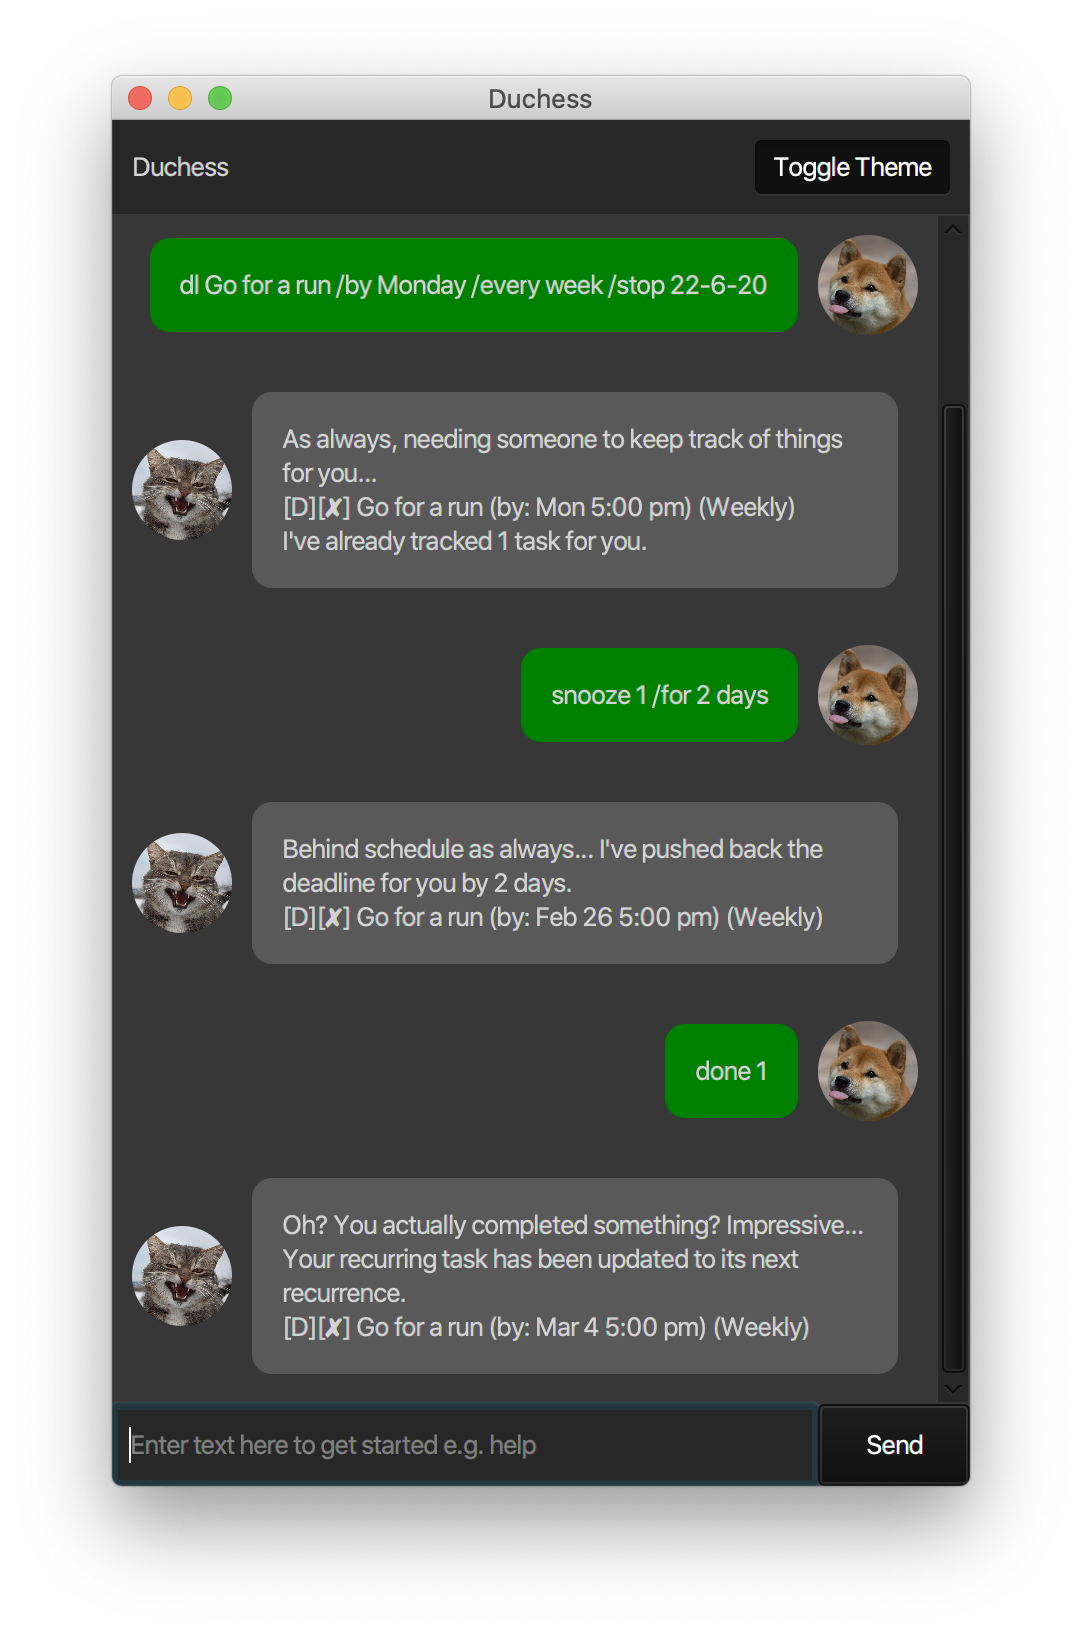
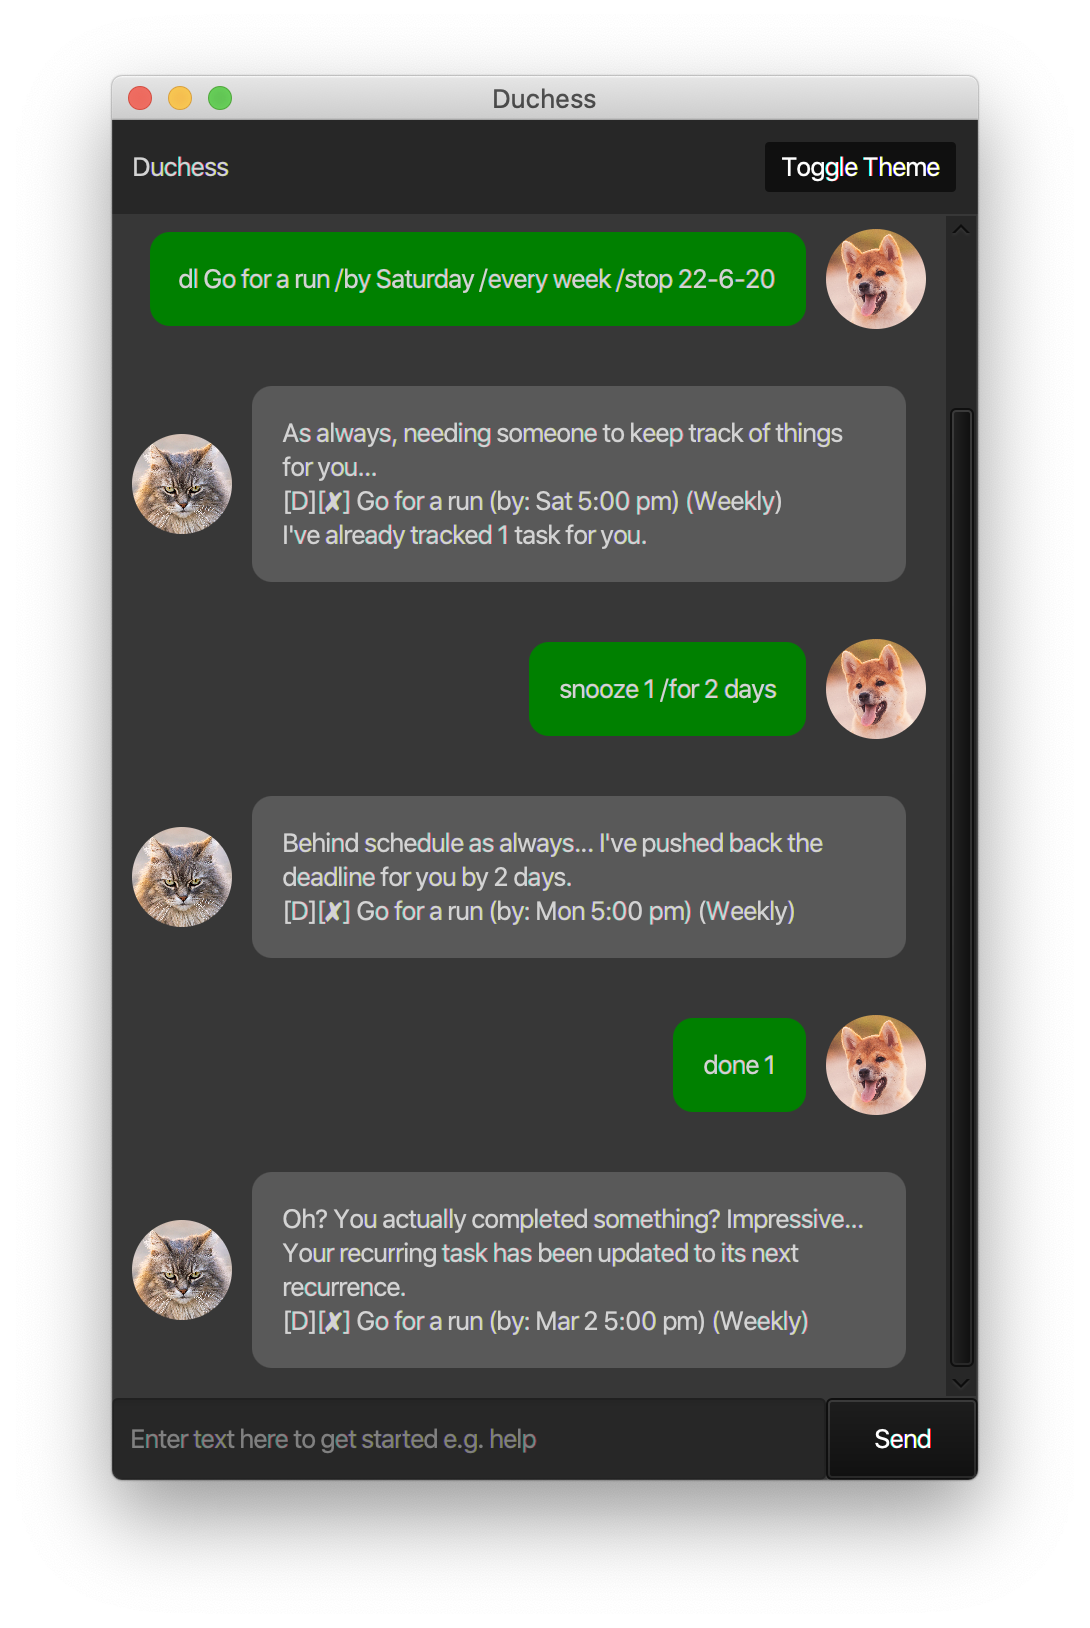
docs: do up documentation for duchess
Added Ui image and updated `docs/README.md` with the latest user guide.

To be brushed up later on.

diff --git a/docs/README.md b/docs/README.md
@@ -1,20 +1,319 @@
-# User Guide
+# User Guide for Duchess
+_Zhu Hanming A0196737L_
+
+Welcome to Duchess, the task manager app who just can't wait for you to go away!  
+
+Track your todos, deadlines and events meticulously, and have fun while doing so!
 
 ## Features 
 
-### Feature 1 
-Description of feature.
+### Create Tasks Based on Your Needs
+
+In Duchess, three different tasks can be created, depending on your needs:
+* Todos
+* Events
+* Deadlines
+
+#### Todos
+Todos are simply tasks with a description and a completion status, much like a todo you'd have on your todo list. As
+ such, it's very simple to create and use.
+ 
+#### Events
+Events on the other hand allow you to tag some particular time frame to your task. This is not a strict start and end
+ date, but rather a casual description, such as "at University Town, 2-4pm".
+ 
+#### Deadlines
+Deadlines are the tasks with hard due dates. Upon going beyond these due dates, you will be given warnings.
+
+Deadlines can also be recurring / repeated. More information on how to maximise the use of Deadlines will be included
+ below!  
+ 
+### Manage Your Tasks Easily
+A variety of commands has been provided to enable quicker management and handling of tasks. Do check out the list below!
+
+### Easy on Your Eyes
+Say no to light mode. Simply click the Theme Toggle to turn on Dark Mode and save your eyes some pain.
+
+### Averse to GUI? No problem.
+If you don't want to use my GUI (which is a pity), simply download the `.jar` file and run the following command on
+ your command line or terminal:  
+```
+java -jar duke-0.2.0.jar -mode console
+```
+
+With the `-mode console` flag, rest assured that you'll be having a **console-ing** experience.
 
 ## Usage
 
-### `Keyword` - Describe action
+### `todo` - adds a todo
 
-Describe action and its outcome.
+A todo will be added to your list of tasks.
 
 Example of usage: 
 
-`keyword (optional arguments)`
+`todo Jog`
+
+Expected outcome:
+```
+As always, needing someone to keep track of your things for you...
+[T][✘] Jog
+I've already tracked 1 task for you.
+```
+
+Shorthands for this command:  
+`t Jog`
+
+### `event` - adds an event
+
+An event will be added to your list of tasks.
+
+Example of usage: 
+
+`event Holiday /at Hawaii`
+
+Expected outcome:
+```
+As always, needing someone to keep track of your things for you...
+[E][✘] Holiday (at: Hawaii)
+I've already tracked 2 tasks for you.
+```
+
+Shorthands for this command:  
+`e Holiday /at Hawaii`
+
+### `deadline` - adds a deadline
+
+A deadline will be added to your list of tasks.
+
+Example of usage: 
+
+`deadline Go for a run /by 21-2-20 1800`
+
+Expected outcome:
+```
+As always, needing someone to keep track of your things for you...
+[D][✘] Go for a run (by: Fri 6:00 pm)
+I've already tracked 3 tasks for you.
+```
+
+Shorthands for this command:  
+`dl Go for a run /by 21-2-20 1800`
+
+**More about Deadlines**
+
+Deadline is the most powerful task in Duchess. It's extremely flexible, and you can make them repeat.
+
+Here are the acceptable formats for the date time input:
+* d-m-yy (e.g. `12-2-21`)
+* d-m-yy HHmm (e.g. `12-2-21 1000`)
+* Today / Tonight / Tomorrow
+* Monday / Tuesday / Wednesday / etc. (assigns the coming Monday, Tuesday, etc. respectively)
+
+To make your deadline repeat, you simply need to add a `/every FREQUENCY`, where `FREQUENCY` can be:
+* Day / Daily
+* Week / Weekly
+* Biweekly / Fortnightly / Two weeks / 2 weeks
+* Month
+
+And if you want this repetition to stop, simply add `/stop TIME`, where `TIME` is of the same date time format as the
+ due date. In other words, a full command might look something like this:
+
+`deadline Do CS2103 Tutorial /by Thursday /every week /stop 16-4-20`
+
+### `list` - lists out your tasks
+
+Your tasks will be listed out.
+
+Example of usage: 
+
+`list`
+
+Expected outcome:
+```
+Sighs... you never remember what you say, don't you.
+You said these:
+1.  [T][✘] Jog
+2.  [E][✘] Holiday (at: Hawaii)
+3.  [D][✘] Go for a run (by: Fri 6:00 pm)
+```
+
+Shorthands for this command:  
+`l`  
+`li`
+
+### `done` - completes a task
+
+You will complete the task indicated by the index after the `done` command. This index is with reference to its
+ number on the list.
+
+Example of usage: 
+
+`done 1`
+
+Expected outcome:
+```
+Oh? You actually completed something? Impressive...
+[T][✓] Jog
+```
+
+Shorthands / Alternatives for this command:  
+`d 1`  
+`complete 1`
+
+### `find` - finds a task
+
+This is to search through tasks based on their name. This command is case insensitive, and the full word will need to
+ be contained in the name for the task to be shown.
+
+Example of usage: 
+
+`find holiday`
+
+Expected outcome:
+```
+Not bad, I found the following:
+1.  [E][✘] Holiday (at: Hawaii)
+    [REF INDEX FOR DELETE/DONE: 2]
+```
+
+The REF INDEX is with respect to the original list, and since the `done` and the later `delete` commands are with
+ respect to that order, you will need to use that index instead of the filtered list index. 
+ 
+Shorthands / Alternatives for this command:  
+`f 2`  
+`search 2`
+
+### `delete` - deletes a task
+
+Much like `done` marks a task at a certain index as done, `delete` deletes a task at a certain index.
+
+Example of usage: 
+
+`delete 2`
+
+Expected outcome:
+```
+Great! One less thing for me to track for you.
+[E][✘] Holiday (at: Hawaii) [DELETED]
+Now I'm tracking 2 tasks for you.
+``` 
+
+You can also delete all tasks at once:  
+`delete all`
+
+Expected outcome:
+```
+All tasks have been deleted. If you regret this, try undoing.
+```
+
+You'll get to see `undo` later.
+ 
+Shorthands / Alternatives for this command:  
+`del 2`  
+
+### `snooze` - pushes back a deadline
+
+Pushes a deadline back by the duration indicated.
+
+Example of usage: 
+
+`snooze 2 /for 3 days`
+
+Expected outcome:
+```
+Behind schedule as always... I've pushed back the deadline for you by 2 days.
+[D][✘] Go for a run (by: Sun 6:00 pm)
+``` 
+
+*Formats for Durations*  
+The formats accepted are (with x being a positive number):
+* x hours
+* x days
+* x weeks
+* x months
+* x years (wow)
+ 
+Shorthands / Alternatives for this command:  
+None
+
+### `sort` - sorts the task list
+
+Sorts the task list by the following standards:
+* Incomplete deadlines with the earliest due dates first
+* Incomplete todos and events in the order that they were created
+* Complete deadlines, todos and events in the order that they were created 
+
+Example of usage: 
+
+`sort`
+
+Expected outcome:
+```
+Your list of tasks has been sorted.
+Type 'list' to see the new order.
+``` 
+
+If you type in `list`, you'll see:  
+```
+Sighs... you never remember what you say, don't you.
+You said these:
+1.  [D][✘] Go for a run (by: Sun 6:00 pm)
+2.  [T][✓] Jog
+```
+
+Shorthands / Alternatives for this command:  
+`s`
+
+### `help` - prints the help message
+
+It's a very long help message that summarises what you see here.
+
+Example of usage: 
+
+`help`
+
+### `undo` - undo your last action
+
+This undoes your last action that made a change to the task list, be it sorting or deleting tasks.
+
+Example of usage: 
+
+`undo`
+
+Expected outcome:
+```
+I've helped to fix your mistakes again. Your last command:
+sort
+has been undone.
+``` 
+
+Shorthands / Alternatives for this command:  
+None
+
+### `bye` - terminates the program
+
+Closes the GUI window
+
+Example of usage: 
+
+`bye`
 
 Expected outcome:
 
-`outcome`
+Window closes
+
+Shorthands / Alternatives for this command:    
+`exit`  
+`quit`
+
+## Acknowledgements
+
+### External Packages Used
+* [Gson by Google](https://github.com/google/gson) - For saving tasks into a JSON file.
+
+### Other Licenses
+All images used in this project have been properly licensed for use. The photos are namely:
+* [Grumpy cat by fotyma](https://elements.envato.com/grumpy-cat-BVUARH4)
+* [Beautiful Young Red Shiba Inu Puppy Dog Sitting Outdoor In Sandy by Grigory_bruev](https://elements.envato.com/beautiful-young-red-shiba-inu-puppy-dog-sitting-XMSN35D)
+
+The photos have all been licensed under the Envato Elements License for CS2103 usage.
